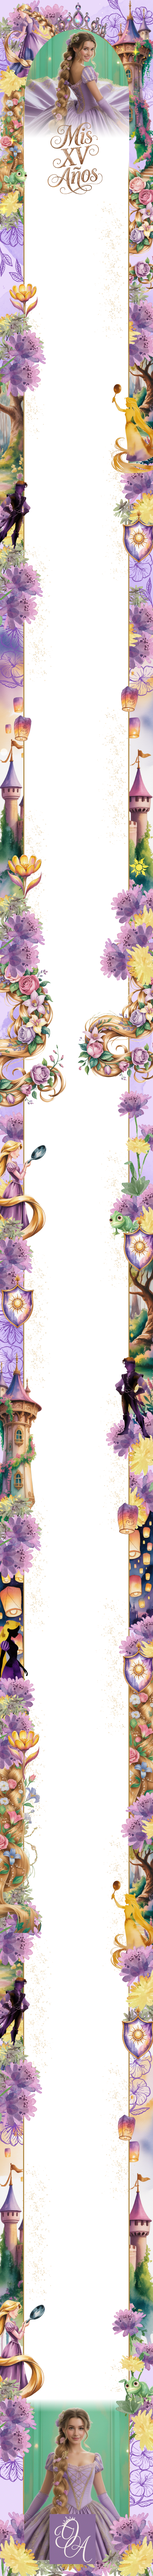
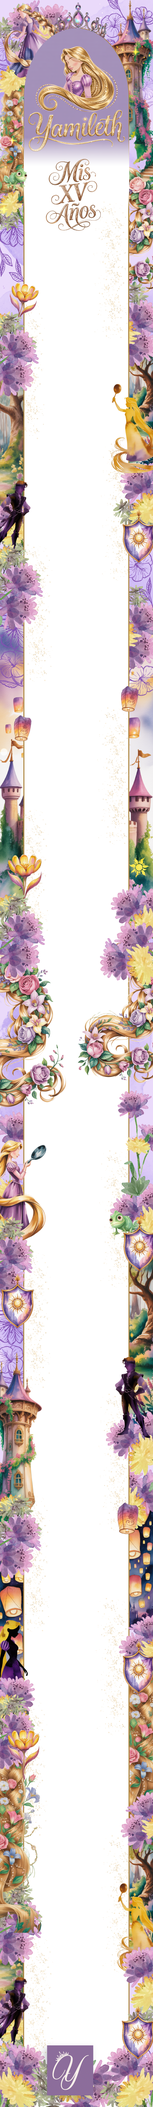
cambios_varios

diff --git a/invi/invitacion_xv/rapunzel_Yamileth/invitacion.html b/invi/invitacion_xv/rapunzel_Yamileth/invitacion.html
@@ -33,11 +33,11 @@
        .background {
         background-image: url('img/fondo.png'); /* Ruta de tu imagen */
         background-repeat: no-repeat; /* Evita que se repita */
-        background-size: 450px 7566px; /* Tamaño exacto */
+        background-size: 450px 6189px; /* Tamaño exacto */
         background-position: top center; /* Centrado en la parte superior */
         width: 100%; /* Ancho fijo */
 		max-width: 450px; /* Ancho máximo */
-        min-height: 7566px; /* Altura exacta */
+        min-height: 6189px; /* Altura exacta */
         margin: 0 auto;
         animation: slideIn 1.5s ease-out;
 		position: relative;
@@ -1138,7 +1138,8 @@
         <div class="arrow-up"></div>
     </button> 
 			
-            <h1 class="name">Yamileth</h1>
+            <h1 class="name"><br>
+</h1>
             <p class="subtext">Quince años de amor, <br>
 sueños
 				<br>
@@ -1251,12 +1252,12 @@ de sobres que he preparado.</p>
 		<section class="final-section">
 			
 			<div class="final-item">
-         <div class="social-icon social-icon-album"></div>
+         <div align="center"><img src="img/cenefa_2.png" width="100%"></div>
         <h2 class="final-title">Álbum Compartido</h2>
         <p class="final-content">Da click aquí para subir<br> las fotos que tomes<br>
  durante la fiesta y formar <br>parte de mis recuerdos más especiales.</p>
        
-        <a href="#" class="confirm-button"><strong><em>Subir Fotos</em></strong></a>
+        <a href="https://drive.google.com/drive/folders/1V-OTkdpRmi8VPczQSFLMsLlOOuXblpqS?usp=drive_link" class="confirm-button"><strong><em>Subir Fotos</em></strong></a>
     </div>
 			
     <!-- Sugerencia de Hospedaje -->
@@ -1268,7 +1269,7 @@ de sobres que he preparado.</p>
         
         <!-- NUEVA SECCIÓN: Contenedor del reloj digital en formato de cronómetro -->
         <div class="digital-clock-container">
-			<div class="countdown-icon"></div>
+			 <div align="center"><img src="img/cenefa.png" width="100%"></div>
         <h2 class="final-title">Faltan</h2>
 			<p class="final-content">DIAS// HORAS//MINUTOS </p>
             <div id="digital-clock" class="digital-clock">
@@ -1330,7 +1331,7 @@ de sobres que he preparado.</p>
     
     <!-- Confirmación WhatsApp -->
    <div class="final-item">
-        <div class="whatsapp-icon"></div>
+        <div align="center"><img src="img/cenefa_2.png" width="100%"></div>
         <h2 class="final-title">Confirma tu asistencia</h2>
         <p class="final-content">Tu presencia es muy importante<br>
  para mí.<em>Por eso te pido que confirmes tu asistencia.</em><br>
@@ -1346,13 +1347,14 @@ Da click en el botón y escribas tu nombre.
 			
 			
 			 <p class="parrafo">
-¡Agradezco de corazón que <br>
+¡Agradezco  que 
 celebres conmigo!</p>
-			 <h2 class="final-title">¡Nos vemos<br>
+			 <h2 class="final-title">¡Nos vemos
 
  pronto!</h2>
 <p class="thanks">
 Con Cariño,<br>
+
 
 Yamileth</p>
            
